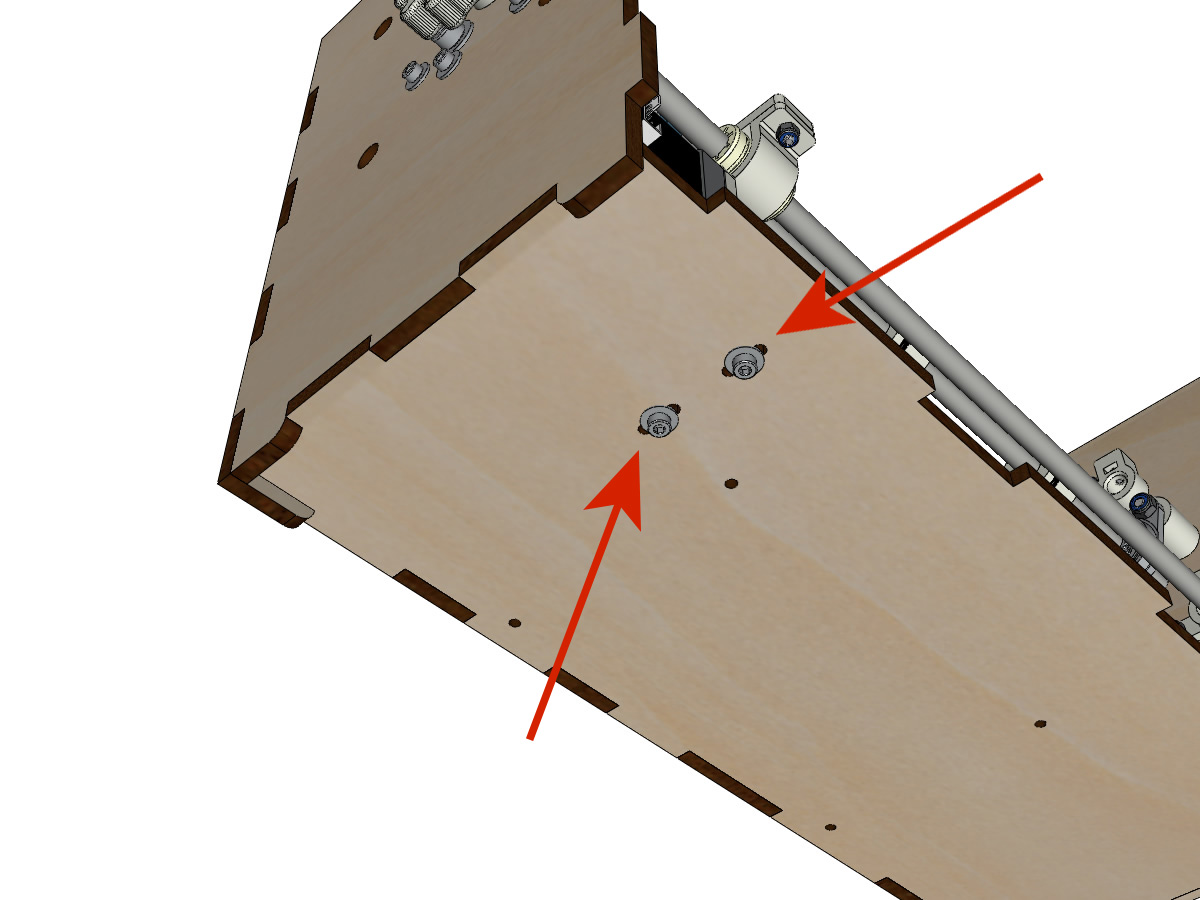
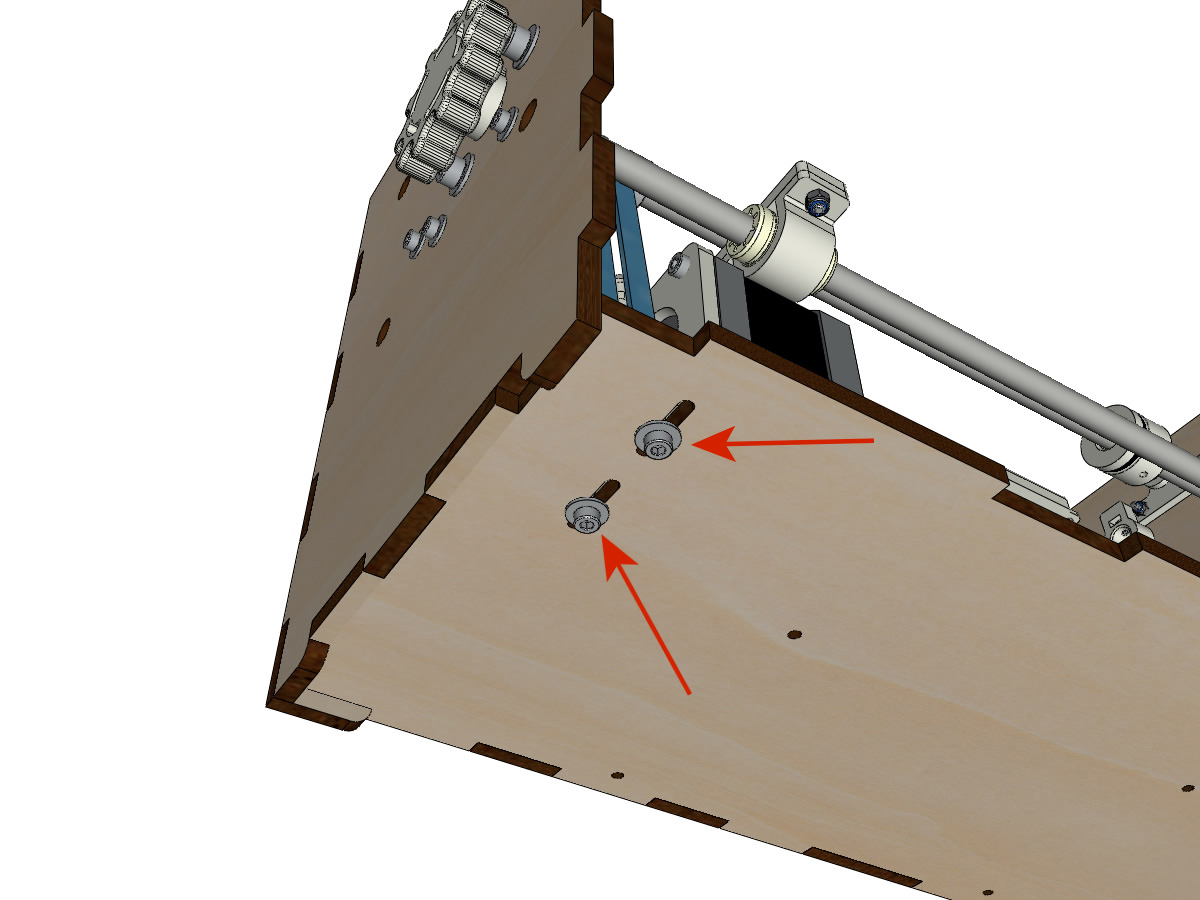
DOC UPDATE

diff --git a/docs/assemblage.rst b/docs/assemblage.rst
@@ -530,7 +530,7 @@ Matériel :
        :align: center
        
 * Enfiler la barre lisse à mi course par le côté gauche à travers la caisse et le KFL8.
-* Dans l’ordre, enfiler la poulie GT2 20 dents bore 8mm, la courroie fermée et les 3 ROLL_joint ( attention à la position du joint torique ).Mettre la courroie fermée sur la poulie du moteur Y et sur la poulie de l’axe.
+* Dans l’ordre, enfiler la poulie GT2 20 dents bore 8mm, la courroie fermée et les 2 ROLL_joint ( attention à la position du joint torique ).Mettre la courroie fermée sur la poulie du moteur Y et sur la poulie de l’axe.
 
 .. image :: ./IMG/BrailleRAP-V5.73.jpg
        :align: center
@@ -661,11 +661,32 @@ Matériel :
 
   * 2 barres lisses Ø 8mm, longueur : 330mm
 
-* Enfiler les barres à mi-course par l’extérieur de la caisse **AJOUTER IMAGE**
-* Enfiler le chariot bas sur les barres lisses **AJOUTER IMAGE**
-* Terminer d’enfiler les barres (elles ne doivent pas dépasser dans le bois de la caisse) **AJOUTER IMAGE**
-* Serrer les vis des supports d’axes sur la caisse. **AJOUTER IMAGE**
-* Visser les vis sans tête des supports des axes **AJOUTER IMAGE**
+* Enfiler les barres à mi-course par l’extérieur de la caisse.
+
+.. image :: ./IMG/BrailleRAP-V5;89.jpg
+       :align: center
+
+* Enfiler le chariot bas sur les barres lisses;
+
+.. image :: ./IMG/BrailleRAP-V5.90.jpg
+       :align: center
+
+* Terminer d’enfiler les barres.
+
+.. Note:: La tranche du bois doit restée apparente.
+
+.. image :: ./IMG/BrailleRAP-V5.91.jpg
+       :align: center
+
+* Serrer les vis des supports d’axes sur la caisse à gauche et à droite.
+
+.. image :: ./IMG/BrailleRAP-V5.92.jpg
+       :align: center
+
+* Visser les vis sans tête des supports des axes à gauche et à droite.
+
+.. image :: ./IMG/BrailleRAP-V5.93.jpg
+       :align: center
 
 
 Montage de la carte électronique sur la caisse
